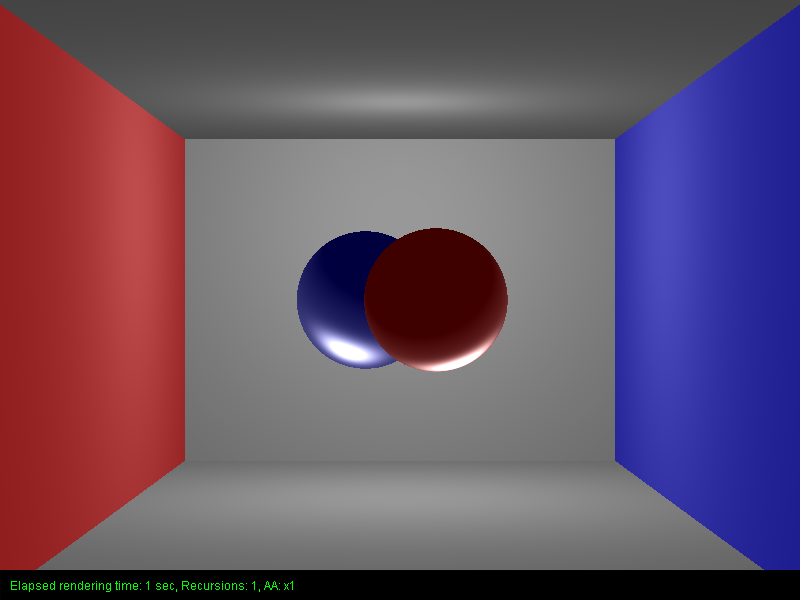
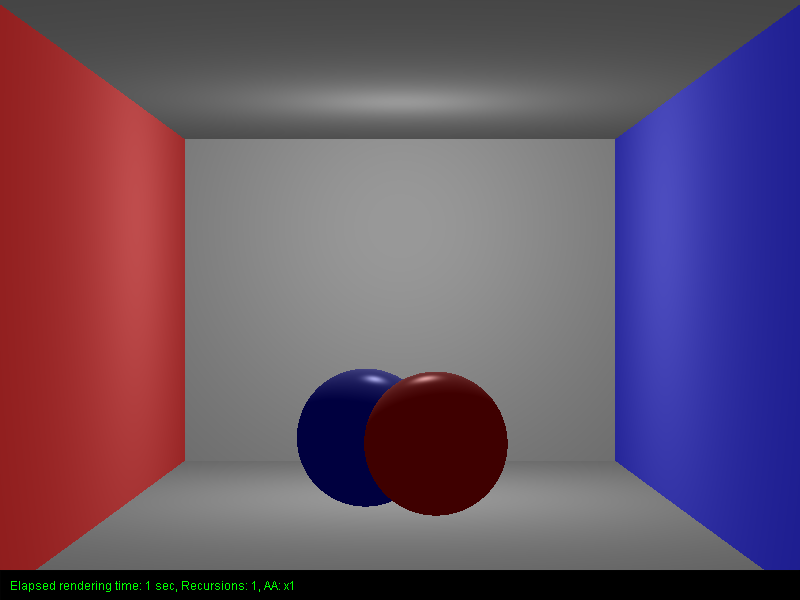
first checkpoint

Changed region(s): [[0.3438, 0.36, 0.6562, 0.87]]

diff --git a/VCG_Raytracer/src/Main.java b/VCG_Raytracer/src/Main.java
@@ -73,7 +73,7 @@ public class Main {
     static final int GI_SAMPLES = 0;
 
     static final RgbColor LIGHT_COLOR = null;
-    static final RgbColor AMBIENT_LIGHT = null;
+    static final RgbColor AMBIENT_LIGHT = RgbColor.BLACK;
 
     static final boolean USE_AO = false;
     static final int NUMBER_OF_AO_SAMPLES = 0;
@@ -90,11 +90,12 @@ public class Main {
     static public Camera mCamera;
 
     /** MATERIALS **/
+    static Lambert lambertLightWhite = new Lambert(RgbColor.WHITE, 0.2f, 0);
     static Lambert lambertWhite = new Lambert(RgbColor.WHITE, 0.2f, 0.4f);
     static Lambert lambertBlue = new Lambert(RgbColor.BLUE, 0.9f, 0.3f);
     static Lambert lambertRed = new Lambert(RgbColor.RED, 0.9f, 0.3f);
-    static Phong phongBlue = new Phong(RgbColor.BLUE, 0.5f, 0.3f, 0.5f, 15);
-    static Phong phongRed = new Phong(RgbColor.RED, 0.5f, 0.3f, 0.5f, 15);
+    static Phong phongBlue = new Phong(RgbColor.BLUE, 0.5f, 0.3f, 0.5f, 50);
+    static Phong phongRed = new Phong(RgbColor.RED, 0.5f, 0.3f, 0.5f, 50);
 
     /** DEBUG **/
     static final boolean SHOW_PARAM_LABEL = true;
@@ -127,7 +128,7 @@ public class Main {
     }
 
     private static void setupLights(Scene renderScene) {
-        renderScene.createPointLight(new Vec3 (0,1.4f, 0), RgbColor.WHITE);
+        renderScene.createPointLight(new Vec3 (0,1.3f, 0), RgbColor.WHITE);
     }
 
     private static void setupCameras(Scene renderScene) {
@@ -135,16 +136,17 @@ public class Main {
     }
 
     private static void setupObjects(Scene renderScene) {
-        renderScene.createSphere(new Vec3(-0.5f,0,1), 1f, phongBlue);
-        renderScene.createSphere(new Vec3(0.5f,0,2), 1f, phongRed);
+        renderScene.createSphere(new Vec3(-0.5f,-2,1), 1f, phongBlue);
+        renderScene.createSphere(new Vec3(0.5f,-2,2), 1f, phongRed);
     }
 
     private static void setupCornellBox(Scene renderScene) {
-        renderScene.createPlane(new Vec3(0,0,-2), new Vec3(0,0,-1), lambertWhite);
-        renderScene.createPlane(new Vec3(0, 1.5f,0), new Vec3(0,1,0),lambertWhite);
-        renderScene.createPlane(new Vec3(0,-1.5f,0), new Vec3(0,-1,0),lambertWhite);
-        renderScene.createPlane(new Vec3(-2f,0,0), new Vec3(-1,0,0),lambertRed);
-        renderScene.createPlane(new Vec3(2f,0,0), new Vec3(1,0,0),lambertBlue);
+        renderScene.createSquare(new Vec3(0,1.45f,0), new Vec3(0,-1,0), 1, lambertRed);
+        renderScene.createPlane(new Vec3(0,0,-2), new Vec3(0,0,1), lambertWhite);
+        renderScene.createPlane(new Vec3(0, 1.5f,0), new Vec3(0,-1,0),lambertWhite);
+        renderScene.createPlane(new Vec3(0,-1.5f,0), new Vec3(0,1,0),lambertWhite);
+        renderScene.createPlane(new Vec3(-2f,0,0), new Vec3(1,0,0),lambertRed);
+        renderScene.createPlane(new Vec3(2f,0,0), new Vec3(-1,0,0),lambertBlue);
 
     }
 

diff --git a/VCG_Raytracer/src/raytracer/Raytracer.java b/VCG_Raytracer/src/raytracer/Raytracer.java
@@ -93,6 +93,7 @@ public class Raytracer {
 	/** Create intersection instance **/
 	public Intersection intersect(double hitValue, Ray ray, Shape shape) {
 		Intersection intersection = new Intersection();
+		intersection.setInRay(ray.getDirection());
 		float rayTValue = ray.getT();
 		if (rayTValue == Float.NaN) {
 			intersection.setHit(false);
@@ -135,7 +136,7 @@ public class Raytracer {
 			ray = setupRay(x,y);
 			// Invert matrix and ray for transformed shape
 			Matrix4x4 inverse = shape.getTransformMatrix().invert();
-			ray.setDirection(inverse.multVec3(ray.getDirection(), false));
+			//ray.setDirection(inverse.multVec3(ray.getDirection(), false));
 			ray.setStartPoint(inverse.multVec3(ray.getStartPoint(), true));
 
 			double discriminant = shape.intersect(ray);
@@ -155,7 +156,7 @@ public class Raytracer {
 	public RgbColor calculateColor(Intersection intersection) {
 		// Depending on the material calculate the pixel color
 		RgbColor pixelColorDiffuseSpecular = null;
-		RgbColor pixelColor = null;
+		RgbColor pixelColor = mAmbientLight;
 
 		if (intersection != null && intersection.isHit() && intersection.getShape() != null) {
 			for (Light light : lightList) {
@@ -183,6 +184,8 @@ public class Raytracer {
 		}
 		return pixelColor;
 	}
+
+
 
 	/**  This is where our scene is actually ray-traced **/
 	public void renderScene(){

diff --git a/VCG_Raytracer/src/scene/material/Phong.java b/VCG_Raytracer/src/scene/material/Phong.java
@@ -29,11 +29,20 @@ public class Phong extends Material{
         Vec3 viewVector = _camera.getViewVector();
         Vec3 normal = _intersection.getNormal().normalize();
         Vec3 lightPosition = _light.getPosition();
-        Vec3 lightVector = _intersection.getIntersectionPoint().sub(lightPosition).normalize();
-        Vec3 reflectionVector = (normal.sub(lightVector)).multScalar(normal.scalar(lightVector)).multScalar(2);
+        Vec3 lightVector = lightPosition.sub(_intersection.getIntersectionPoint()).normalize();
+        float diffuseScalar = normal.scalar(lightVector);
+        Vec3 reflectionVector = normal.multScalar(diffuseScalar).multScalar(2).sub(lightVector);
+        float specularScalar = reflectionVector.scalar(_intersection.getInRay().negate());
 
-        float diffuse = mDiffuseCoefficient*(normal.scalar(lightVector));
-        float specular = mSpecularCoefficient*((float) Math.pow((viewVector.scalar(reflectionVector)),mSpecularExponent));
+        if(diffuseScalar <0){
+            diffuseScalar = 0;
+        }
+
+        if(specularScalar<0){
+            specularScalar=0;
+        }
+        float diffuse = mDiffuseCoefficient*(diffuseScalar);
+        float specular = mSpecularCoefficient*((float) Math.pow(specularScalar,mSpecularExponent));
 
         return _light.getColor().multScalar(diffuse+specular);
     }

diff --git a/VCG_Raytracer/src/scene/Shape.java b/VCG_Raytracer/src/scene/Shape.java
@@ -13,6 +13,7 @@ public class Shape extends SceneObject {
 
     protected Vec3 center;
     protected Vec3 normal;
+    protected float size;
     protected Material material;
     protected Matrix4x4 transformMatrix = new Matrix4x4();
 
@@ -34,13 +35,18 @@ public class Shape extends SceneObject {
         this.normal = _normal;
         this.material = _material;
     }
+    public Shape(Vec3 _center, Vec3 _normal, float _size, Material _material) {
+        this.transformMatrix.translateXYZ(_center);
+        this.center = transformMatrix.multVec3(new Vec3(0,0,0), true);
+        this.normal = _normal;
+        this.size = _size;
+        this.material = _material;
+    }
 
     public Vec3 getCenter() {
         return center;
     }
-    public void setCenter(Vec3 _center) {
-        this.center = _center;
-    }
+    public void setCenter(Vec3 _center) { this.center = _center; }
 
     public Vec3 getNormal() { return normal; }
     public void setNormal(Vec3 normal) { this.normal = normal; }

diff --git a/VCG_Raytracer/src/scene/Plane.java b/VCG_Raytracer/src/scene/Plane.java
@@ -22,12 +22,12 @@ public class Plane extends Shape {
     public Plane(Vec3 _center, Vec3 _normal, Material _material) {
         super(_center, _normal, _material);
         this.center = _center;
-        this.normal = _normal;
+        this.normal = _normal.multScalar(-1);
         this.material = _material;
     }
 
     public Vec3 calculateNormal(Vec3 point) {
-        return normal;
+        return normal.multScalar(-1);
     }
 
     /**
@@ -42,7 +42,7 @@ public class Plane extends Shape {
         float rayPlaneEquation = normal.scalar(rayDirection);
         float t;
 
-        if (Math.abs(rayPlaneEquation) > 0) {
+        if (Math.abs(rayPlaneEquation) >= 0) {
             t = center.sub(ray.getStartPoint()).scalar(normal)/rayPlaneEquation;
             if ( t >= 0 ) {
                 ray.setT(t);

diff --git a/VCG_Raytracer/src/scene/material/Lambert.java b/VCG_Raytracer/src/scene/material/Lambert.java
@@ -27,7 +27,7 @@ public class Lambert extends Material {
 
     public RgbColor getDiffuseSpecular(Light _light, Intersection _intersection, Ray lightRay) {
         Vec3 lightPosition = _light.getPosition();
-        Vec3 lightVector = _intersection.getIntersectionPoint().sub(lightPosition).normalize();
+        Vec3 lightVector = lightPosition.sub(_intersection.getIntersectionPoint()).normalize();
         Vec3 normal = _intersection.getNormal().normalize();
 
         return _light.getColor().multScalar(mDiffuseCoefficient).multScalar(normal.scalar(lightVector));

diff --git a/VCG_Raytracer/src/scene/Scene.java b/VCG_Raytracer/src/scene/Scene.java
@@ -37,6 +37,10 @@ public class Scene {
         Plane plane = new Plane(_center, _normal, _material);
         objects.add(plane);
     }
+    public void createSquare(Vec3 _center, Vec3 _normal, float _size, Material _material) {
+        Square square = new Square(_center, _normal, _size, _material);
+        objects.add(square);
+    }
 
     public void createPointLight(Vec3 _position, RgbColor _intensity){
         PointLight pointlight = new PointLight(_position, _intensity);

diff --git a/VCG_Raytracer/src/scene/Sphere.java b/VCG_Raytracer/src/scene/Sphere.java
@@ -72,7 +72,7 @@ public class Sphere extends Shape {
                 ray.setT(t0);
             } else if (discriminant > 0) {
                 if (t0 > 0 && t1 > 0) {
-                    ray.setT(Math.max(t0, t1));
+                    ray.setT(Math.min(t0, t1));
                 } else if (t0 < 0 && t1 < 0) {
                     ray.setT(Float.NaN);
                 } else if (t0 < 0 && t1 > 0) {
